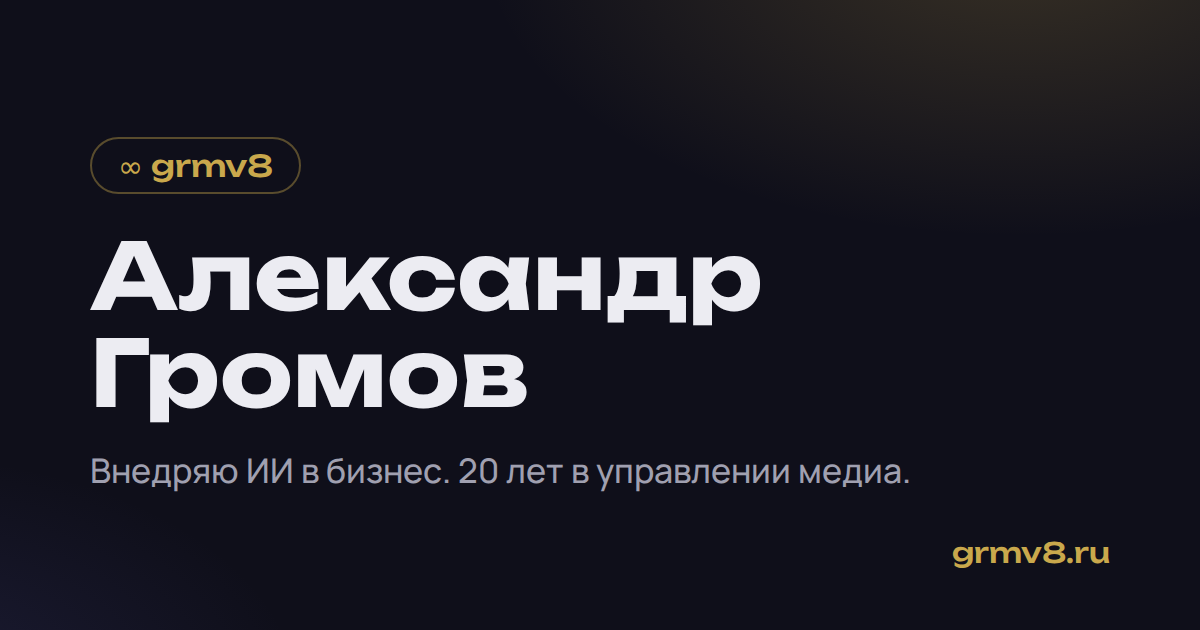
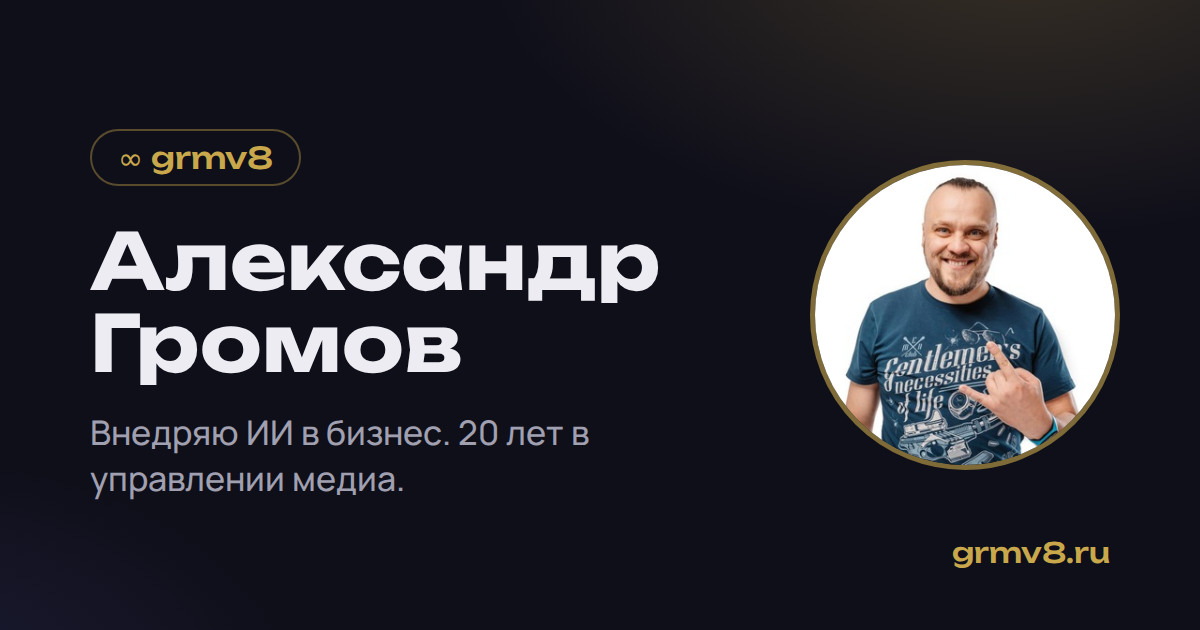
grmv8.ru: фото из Telegram, WhatsApp, Facebook и почта в контактах и разметке, Max убран

Changed region(s): [[0.0617, 0.2413, 0.9558, 0.7841], [0.0617, 0.181, 0.2467, 0.3317]]

diff --git a/index.html b/index.html
@@ -4,7 +4,7 @@
 <meta charset="UTF-8">
 <meta name="viewport" content="width=device-width, initial-scale=1, viewport-fit=cover">
 <title>Александр Громов (grmv8) - внедрение ИИ в бизнес, нейросети, рилс</title>
-<meta name="description" content="Александр Громов, ник grmv8 в Telegram, WhatsApp, Max и Facebook. 20 лет руководил медиа, сейчас внедряет ИИ-отделы в бизнес и учит экспертов продавать через нейросети и рилс.">
+<meta name="description" content="Александр Громов, ник grmv8 в Telegram, WhatsApp и Facebook. 20 лет руководил медиа, сейчас внедряет ИИ-отделы в бизнес и учит экспертов продавать через нейросети и рилс.">
 <link rel="canonical" href="https://grmv8.ru/">
 <meta name="robots" content="index, follow">
 
@@ -40,12 +40,15 @@
       "additionalName": "Юрьевич",
       "alternateName": ["grmv8", "Громов Александр Юрьевич"],
       "url": "https://grmv8.ru/",
-      "image": "https://grmv8.ru/og.png",
+      "image": "https://grmv8.ru/photo.jpg",
+      "email": "mailto:grmv8@ya.ru",
       "jobTitle": "Консультант по внедрению ИИ в бизнес",
       "description": "Бывший генеральный директор региональных медиа, более 20 лет в управлении. Внедряет ИИ-отделы в бизнес, учит экспертов продавать через нейросети и рилс.",
       "knowsAbout": ["искусственный интеллект", "ИИ-агенты", "внедрение ИИ в бизнес", "маркетинг", "рилс", "монетизация медиа", "профайлинг"],
       "sameAs": [
         "https://t.me/grmv8",
+        "https://wa.me/qr/2PC434GC3PRFO1",
+        "https://www.facebook.com/grmv8",
         "https://t.me/ai_gromov8",
         "https://t.me/gromov_dzen",
         "https://www.instagram.com/ai_gromov/",
@@ -71,12 +74,12 @@
         {
           "@type": "Question",
           "name": "Что такое grmv8?",
-          "acceptedAnswer": {"@type": "Answer", "text": "grmv8 - личный ник Александра Громова. Под ним он есть в Telegram, WhatsApp, Max и Facebook, а сайт - grmv8.ru."}
+          "acceptedAnswer": {"@type": "Answer", "text": "grmv8 - личный ник Александра Громова. Под ним он есть в Telegram, WhatsApp и Facebook, почта - grmv8@ya.ru, сайт - grmv8.ru."}
         },
         {
           "@type": "Question",
           "name": "Как связаться с Александром Громовым?",
-          "acceptedAnswer": {"@type": "Answer", "text": "Написать в Telegram: t.me/grmv8. Ник grmv8 одинаковый во всех мессенджерах."}
+          "acceptedAnswer": {"@type": "Answer", "text": "Написать в Telegram: t.me/grmv8. Ник grmv8 одинаковый в Telegram, WhatsApp и Facebook, почта - grmv8@ya.ru."}
         }
       ]
     }
@@ -103,6 +106,10 @@ h1,h2,h3{font-family:Unbounded,Manrope,sans-serif;font-weight:700;line-height:1.
 .nick{display:inline-flex;align-items:center;gap:10px;font:500 15px Unbounded,sans-serif;color:var(--gold);border:1px solid rgba(201,168,76,.35);border-radius:999px;padding:6px 14px}
 .nick .inf{display:inline-block;animation:rot 5s infinite ease-in-out}
 @keyframes rot{0%,25%{transform:rotate(0)}45%,75%{transform:rotate(90deg)}95%,100%{transform:rotate(0)}}
+.who{display:flex;align-items:center;gap:28px;margin:22px 0 18px}
+.who img{width:132px;height:132px;border-radius:50%;object-fit:cover;border:3px solid rgba(201,168,76,.55);flex:none}
+.who h1{margin:0!important}
+@media (max-width:720px){.who{gap:16px}.who img{width:84px;height:84px}}
 .hero h1{font-size:clamp(38px,7vw,72px);margin:22px 0 18px;letter-spacing:-.01em}
 .lead{font-size:clamp(18px,2.4vw,22px);max-width:640px;margin:0 0 30px}
 .btns{display:flex;flex-wrap:wrap;gap:12px}
@@ -162,7 +169,7 @@ footer p{margin:0 0 6px}
 <header class="hero">
   <div class="wrap">
     <span class="nick"><span class="inf">∞</span> grmv8</span>
-    <h1>Александр Громов</h1>
+    <div class="who"><img src="photo.jpg" alt="Александр Громов" width="132" height="132"><h1>Александр Громов</h1></div>
     <p class="lead">Внедряю ИИ в бизнес: собираю отделы из нейросетей-агентов, которые пишут тексты, считают, отвечают клиентам и ведут отчёты круглые сутки. До этого 20 лет руководил медиа.</p>
     <div class="btns">
       <a class="btn btn-gold" href="https://t.me/grmv8">Написать в Telegram</a>
@@ -184,7 +191,7 @@ footer p{margin:0 0 6px}
         <li><b>20+ лет</b><span>в управлении медиа, рекламой и монетизацией</span></li>
         <li><b>100+ человек</b><span>в медиахолдинге под моим руководством</span></li>
         <li><b>2 вуза</b><span>Иннополис и Академия внешней торговли, где я преподавал</span></li>
-        <li><b>grmv8</b><span>один ник во всех мессенджерах</span></li>
+        <li><b>grmv8</b><span>один ник в Telegram, WhatsApp, Facebook и почте</span></li>
       </ul>
     </div>
   </section>
@@ -224,13 +231,15 @@ footer p{margin:0 0 6px}
   <section id="kontakty">
     <div class="wrap">
       <h2>Контакты</h2>
-      <p class="one-nick">Ник везде один - <span class="gold">grmv8</span>. Нашли его в любом мессенджере - это я.</p>
+      <p class="one-nick">Ник везде один - <span class="gold">grmv8</span>. Telegram, WhatsApp, Facebook, почта - везде это я.</p>
       <div class="contacts">
         <a class="contact" href="https://t.me/grmv8"><small>Telegram, лично</small><strong>@grmv8</strong></a>
         <a class="contact" href="https://t.me/ai_gromov8"><small>Канал про ИИ и рилс</small><strong>@ai_gromov8</strong></a>
         <a class="contact" href="https://t.me/gromov_dzen"><small>Канал про мышление</small><strong>@gromov_dzen</strong></a>
         <a class="contact" href="https://www.instagram.com/ai_gromov/"><small>Instagram*</small><strong>@ai_gromov</strong></a>
-        <!-- TODO: WhatsApp, Max, Facebook - add once the owner sends public links -->
+        <a class="contact" href="https://wa.me/qr/2PC434GC3PRFO1"><small>WhatsApp</small><strong>@grmv8</strong></a>
+        <a class="contact" href="https://www.facebook.com/grmv8"><small>Facebook*</small><strong>grmv8</strong></a>
+        <a class="contact" href="mailto:grmv8@ya.ru"><small>Почта</small><strong>grmv8@ya.ru</strong></a>
       </div>
     </div>
   </section>
@@ -244,7 +253,7 @@ footer p{margin:0 0 6px}
       </details>
       <details>
         <summary>Что значит grmv8?</summary>
-        <p>Это мой ник: «Громов» без гласных и восьмёрка. Положите её набок - получится знак бесконечности. Под этим ником я в Telegram, WhatsApp, Max и Facebook*.</p>
+        <p>Это мой ник: «Громов» без гласных и восьмёрка. Положите её набок - получится знак бесконечности. Под этим ником я в Telegram, WhatsApp и Facebook*, почта - grmv8@ya.ru.</p>
       </details>
       <details>
         <summary>С какими задачами к вам приходят?</summary>
